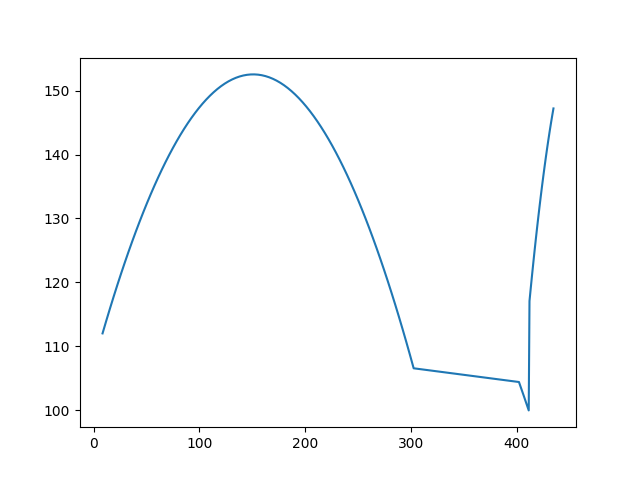
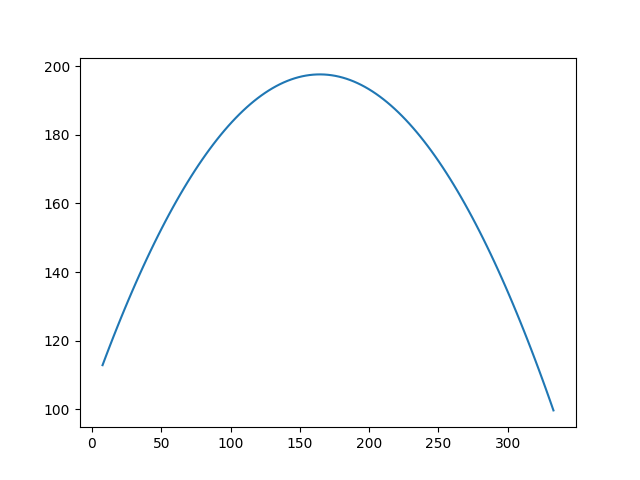
sync for pc

diff --git a/prototype2.py b/prototype2.py
@@ -1,5 +1,6 @@
 import pygame
 import math
+import time as t
 import matplotlib.pyplot as plt
 
 pygame.init()
@@ -9,19 +10,11 @@ window = pygame.display.set_mode((width,height))
 pygame.display.set_caption("Projectile Motion")
 clock = pygame.time.Clock()
 fps = 60
-font = pygame.font.SysFont("Arial", 30, False)
-ground = pygame.Rect(5,height-100,width,100)
-collision = pygame.Rect(0,height-110,width+100,10)
-bounds = pygame.Rect(0,0,width,height)
-back = False
-white = (255,255,255)
-green = (0,100,0)
-red = (255,0,0)
-black = (0,0,0)
 velocities = []
 time = []
 x = []
 y = []
+ground = pygame.Rect(5,height-100,width,100)
 
 class Ball():
     def __init__(self) -> None:
@@ -42,35 +35,35 @@ class Ball():
             mousey+=5
         return mousex,mousey
     
-    def movement(self,hvelocity,vvelocity,duration,first,back):
-        if first == True:
-            mag = math.sqrt(hvelocity**2+vvelocity**2)
-            velocities.append(mag)
-            first = False
-        duration+=0.1
-        time.append(duration)
-        distancex = (hvelocity/2)*duration            
-        distancey = ((vvelocity/2)*duration)+((-4.9 * (duration**2))/2)
-        if back == True:
-            newx = ((b.ball_r.x)-distancex)
-        else:
-            newx = ((b.ball_r.x)+distancex)
-        back = False
-        x.append(newx)
-        newy = (b.ball_r.y-distancey)
-        y.append(height-newy)
-        ball_r2 = pygame.Rect(newx,newy,10,10)
-        return duration,ball_r2
+    def movement(self,ball_r2,hvelocity,vvelocity,duration,first,back):
+        while pygame.Rect.contains(ground,ball_r2) == False: # needs to show the motion also
+            if first == True:
+                mag = math.sqrt(hvelocity**2+vvelocity**2)
+                velocities.append(mag)
+                first = False
+            duration+=0.1
+            time.append(duration)
+            distancex = (hvelocity/2)*duration            
+            distancey = ((vvelocity/2)*duration)+((-4.9 * (duration**2))/2)
+            if back == True:
+                newx = ((b.ball_r.x)-distancex)
+                back = False
+            else:
+                newx = ((b.ball_r.x)+distancex)
+            x.append(newx)
+            newy = (b.ball_r.y-distancey)
+            y.append(height-newy)
+            ball_r2 = pygame.Rect(newx,newy,10,10)
+            t.sleep(0.1)   
+        return duration,ball_r2,back
 
-    def reset(self):
-        self.duration = 0
-        b.ball_r.x = 5
-        b.ball_r.y = height-110
+    def reset(self): # bad and still changing velocity
+        duration = 0
         self.newx = b.ball_r.x
         self.newy = b.ball_r.y
         self.stop = False
         first = True
-        return first
+        return first,duration,5,(height-110)
 
 class Calculations():
     def __init__(self) -> None:
@@ -87,12 +80,11 @@ class Calculations():
             hvelocity = 0
         return vvelocity,hvelocity
     
-    def angle(self,back,lenx,leny,ball_r):
+    def angle(self,back,lenx,leny):
         try:
             angle = round(math.degrees(math.atan(leny/lenx)))
             if angle < 0:
                 back = True
-                angle*=-1
         except ZeroDivisionError:
             angle = 90
         return angle,back
@@ -109,34 +101,46 @@ class Calculations():
         plt.savefig("velocitytime.png")
 
 class Graphics():
-    def draw(self,ball_r2,mousex,mousey):
-        pygame.draw.rect(window,white,bounds)
-        pygame.draw.rect(window,green,ground)
-        pygame.draw.rect(window,white,collision)
-        pygame.draw.rect(window,white,b.ball_r)
-        pygame.draw.line(window,red,pygame.math.Vector2(ball_r2.x+10,ball_r2.y),pygame.math.Vector2(mousex,mousey),5)
-        pygame.draw.rect(window,black,ball_r2)
+    def __init__(self) -> None:
+        self.font = pygame.font.SysFont("Arial", 30, False)
+        self.collision = pygame.Rect(0,height-110,width+100,10)
+        self.bounds = pygame.Rect(0,0,width,height)
+        self.white = (255,255,255)
+        self.green = (0,100,0)
+        self.red = (255,0,0)
+        self.black = (0,0,0)
 
-    def bounds(self,ball_r2,mousex,mousey):
-        if pygame.Rect.contains(bounds,ball_r2) == False:
-            # if y > 600 mousey-600-mousey
-            # if y < 0 mousey+600+mousey
-            # same for x??????????
-            ball_r2.x+=10
-            ball_r2.y-=10
+    def draw(self,ball_r2,mousex,mousey):
+        pygame.draw.rect(window,self.white,self.bounds)
+        pygame.draw.rect(window,self.green,ground)
+        pygame.draw.rect(window,self.white,self.collision)
+        pygame.draw.rect(window,self.white,b.ball_r)
+        pygame.draw.line(window,self.red,pygame.math.Vector2(ball_r2.x+10,ball_r2.y),pygame.math.Vector2(mousex,mousey),5)
+        pygame.draw.rect(window,self.black,ball_r2)
+
+    def bounds(self,ball_r2):
+        if pygame.Rect.contains(self.bounds,ball_r2) == False:
+            if ball_r2.y > 600:
+                ball_r2.y = 590
+            if ball_r2.y < 0:
+                ball_r2.y = 10
+            if ball_r2.x > 800:
+                ball_r2.x = 790
+            if ball_r2.x < 0:
+                ball_r2.x = 10
+        return ball_r2
 
     def text(self,vvelocity,hvelocity,mousex,mousey,angle,duration):
-        window.blit(font.render(f"Vertical Velocity: {round(vvelocity/50,2)}m/s", True, black, None), (2,40))
-        window.blit(font.render(f"Horizonal Velocity: {round(hvelocity/50,2)}m/s", True, black, None), (2,80))
-        window.blit(font.render(f"Angle: {angle}°", True, black, None),(2,0))
-        window.blit(font.render(f"Time: {round(duration,2)}s", True, black, None),(2,120))
-        window.blit(font.render("1m", True, black, None),((100),b.ball_r.y+10))
-        window.blit(font.render(f"x: {mousex} y: {mousey}", True, black, None),(2,160))
+        window.blit(self.font.render(f"Vertical Velocity: {round(vvelocity/50,2)}m/s", True, self.black, None), (2,40))
+        window.blit(self.font.render(f"Horizonal Velocity: {round(hvelocity/50,2)}m/s", True, self.black, None), (2,80))
+        window.blit(self.font.render(f"Angle: {angle}°", True, self.black, None),(2,0))
+        window.blit(self.font.render(f"Time: {round(duration,2)}s", True, self.black, None),(2,120))
+        window.blit(self.font.render("1m", True, self.black, None),((100),b.ball_r.y+10))
+        window.blit(self.font.render(f"x: {mousex} y: {mousey}", True, self.black, None),(2,160))
 
 def mainloop():
     run = True
     back = False
-    stop = False
     first = True
     duration = 0
     mousex = width/2
@@ -149,26 +153,36 @@ def mainloop():
                 run = False
         mousex,mousey = b.controls(mousex,mousey)
         leny = (height-((mousey+b.ball_r.y)-380))/10
-        lenx = (mousex-(b.ball_r.x+10))/10
+        if back == True:
+            lenx = (mousex+(b.ball_r.x+10))/10
+        else:
+            lenx = (mousex-(b.ball_r.x+10))/10
+        #ball_r2 = g.bounds(ball_r2)
+        if pygame.Rect.contains(g.bounds,ball_r2) == False:
+            if ball_r2.y > 600:
+                ball_r2.y = 590
+            if ball_r2.y < 0:
+                ball_r2.y = 10
+            if ball_r2.x > 800:
+                ball_r2.x = 790
+            if ball_r2.x < 0:
+                ball_r2.x = 10
         g.draw(ball_r2,mousex,mousey)
-        g.bounds(ball_r2)
         hdistance,vdistance = c.distance(lenx,leny)
-        angle,back = c.angle(back,lenx,leny,b.ball_r)
+        angle,back = c.angle(back,lenx,leny)
         if first == True:
             vvelocity,hvelocity = c.velocity(c.gravity,vdistance,hdistance,angle)
         g.text(vvelocity,hvelocity,mousex,mousey,angle,duration)
         keys = pygame.key.get_pressed()
         if keys[pygame.K_a]:
-            first = b.reset()
-        if keys[pygame.K_SPACE] and stop == False:
-            duration,ball_r2 = b.movement(hvelocity,vvelocity,duration,first,back)
+            first,duration,ball_r2.x,ball_r2.y = b.reset()
+        if keys[pygame.K_SPACE]:
+            duration,ball_r2,back = b.movement(ball_r2,hvelocity,vvelocity,duration,first,back)
         if pygame.Rect.contains(ground,ball_r2):
-            stop = True
             first = True
             duration = 0
             b.ball_r.x = ball_r2.x
             b.ball_r.y = ball_r2.y-15
-            stop = False
         pygame.display.update()
         clock.tick(fps)
     pygame.quit()
